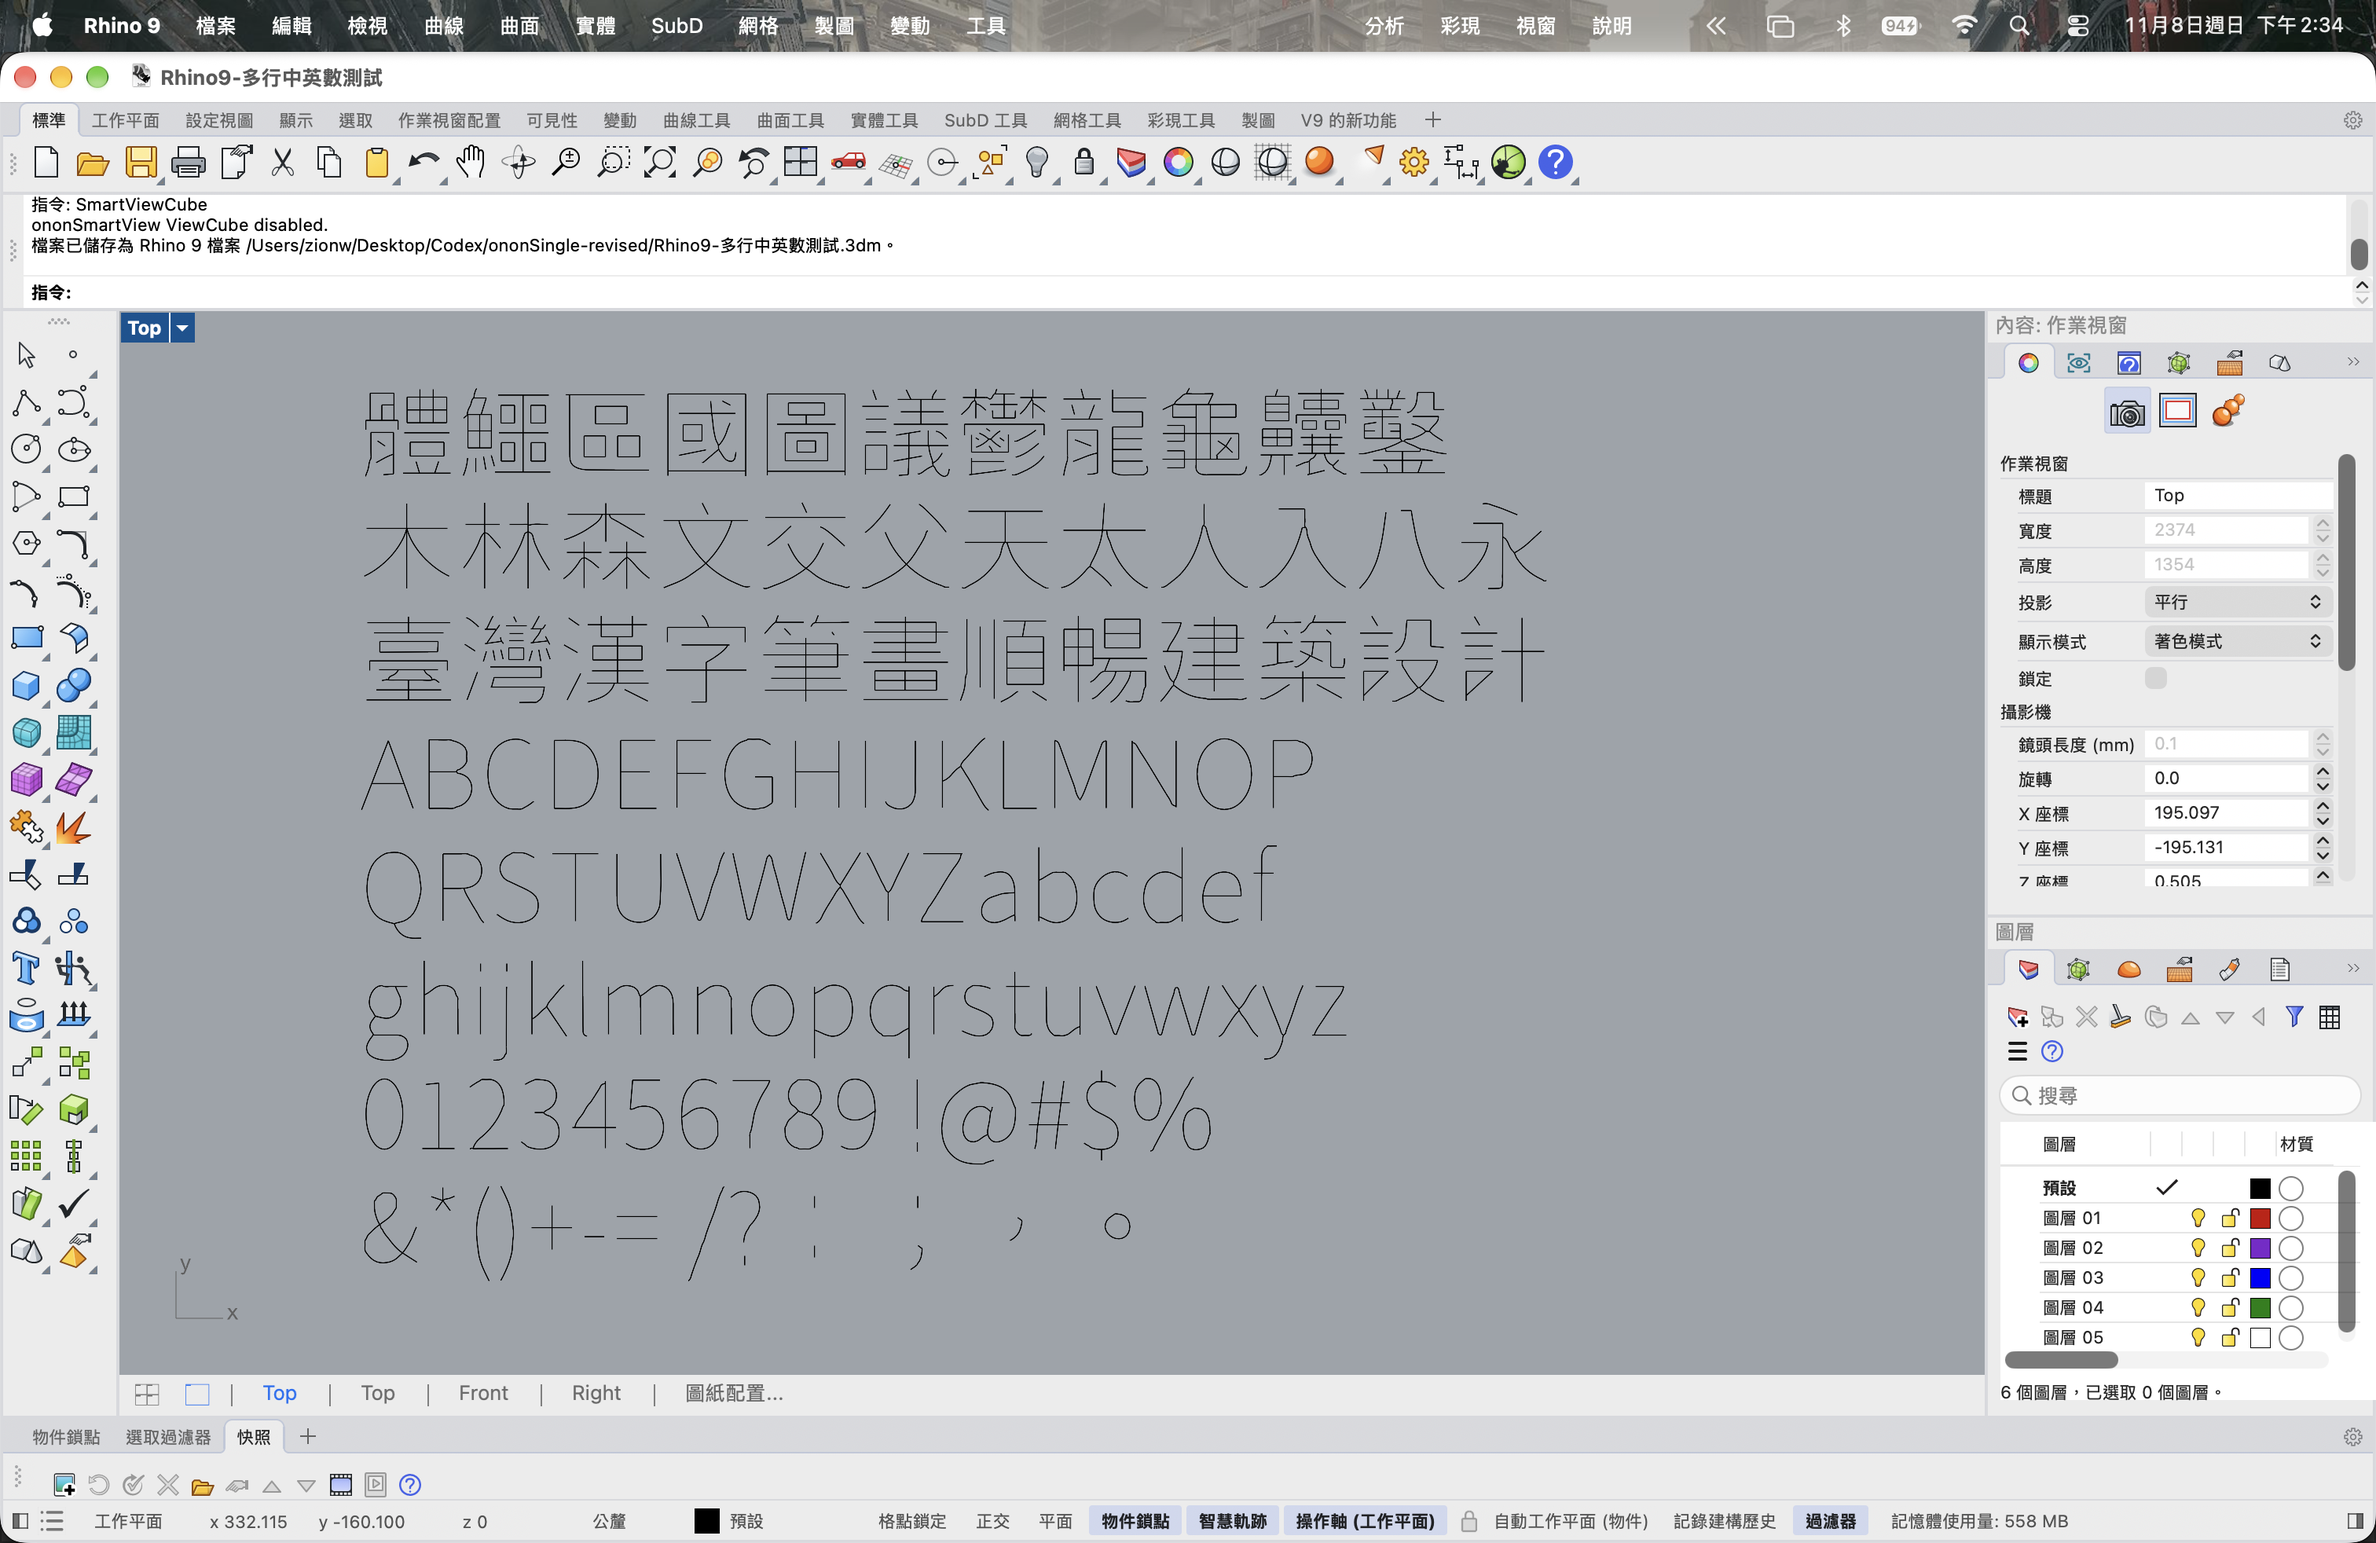
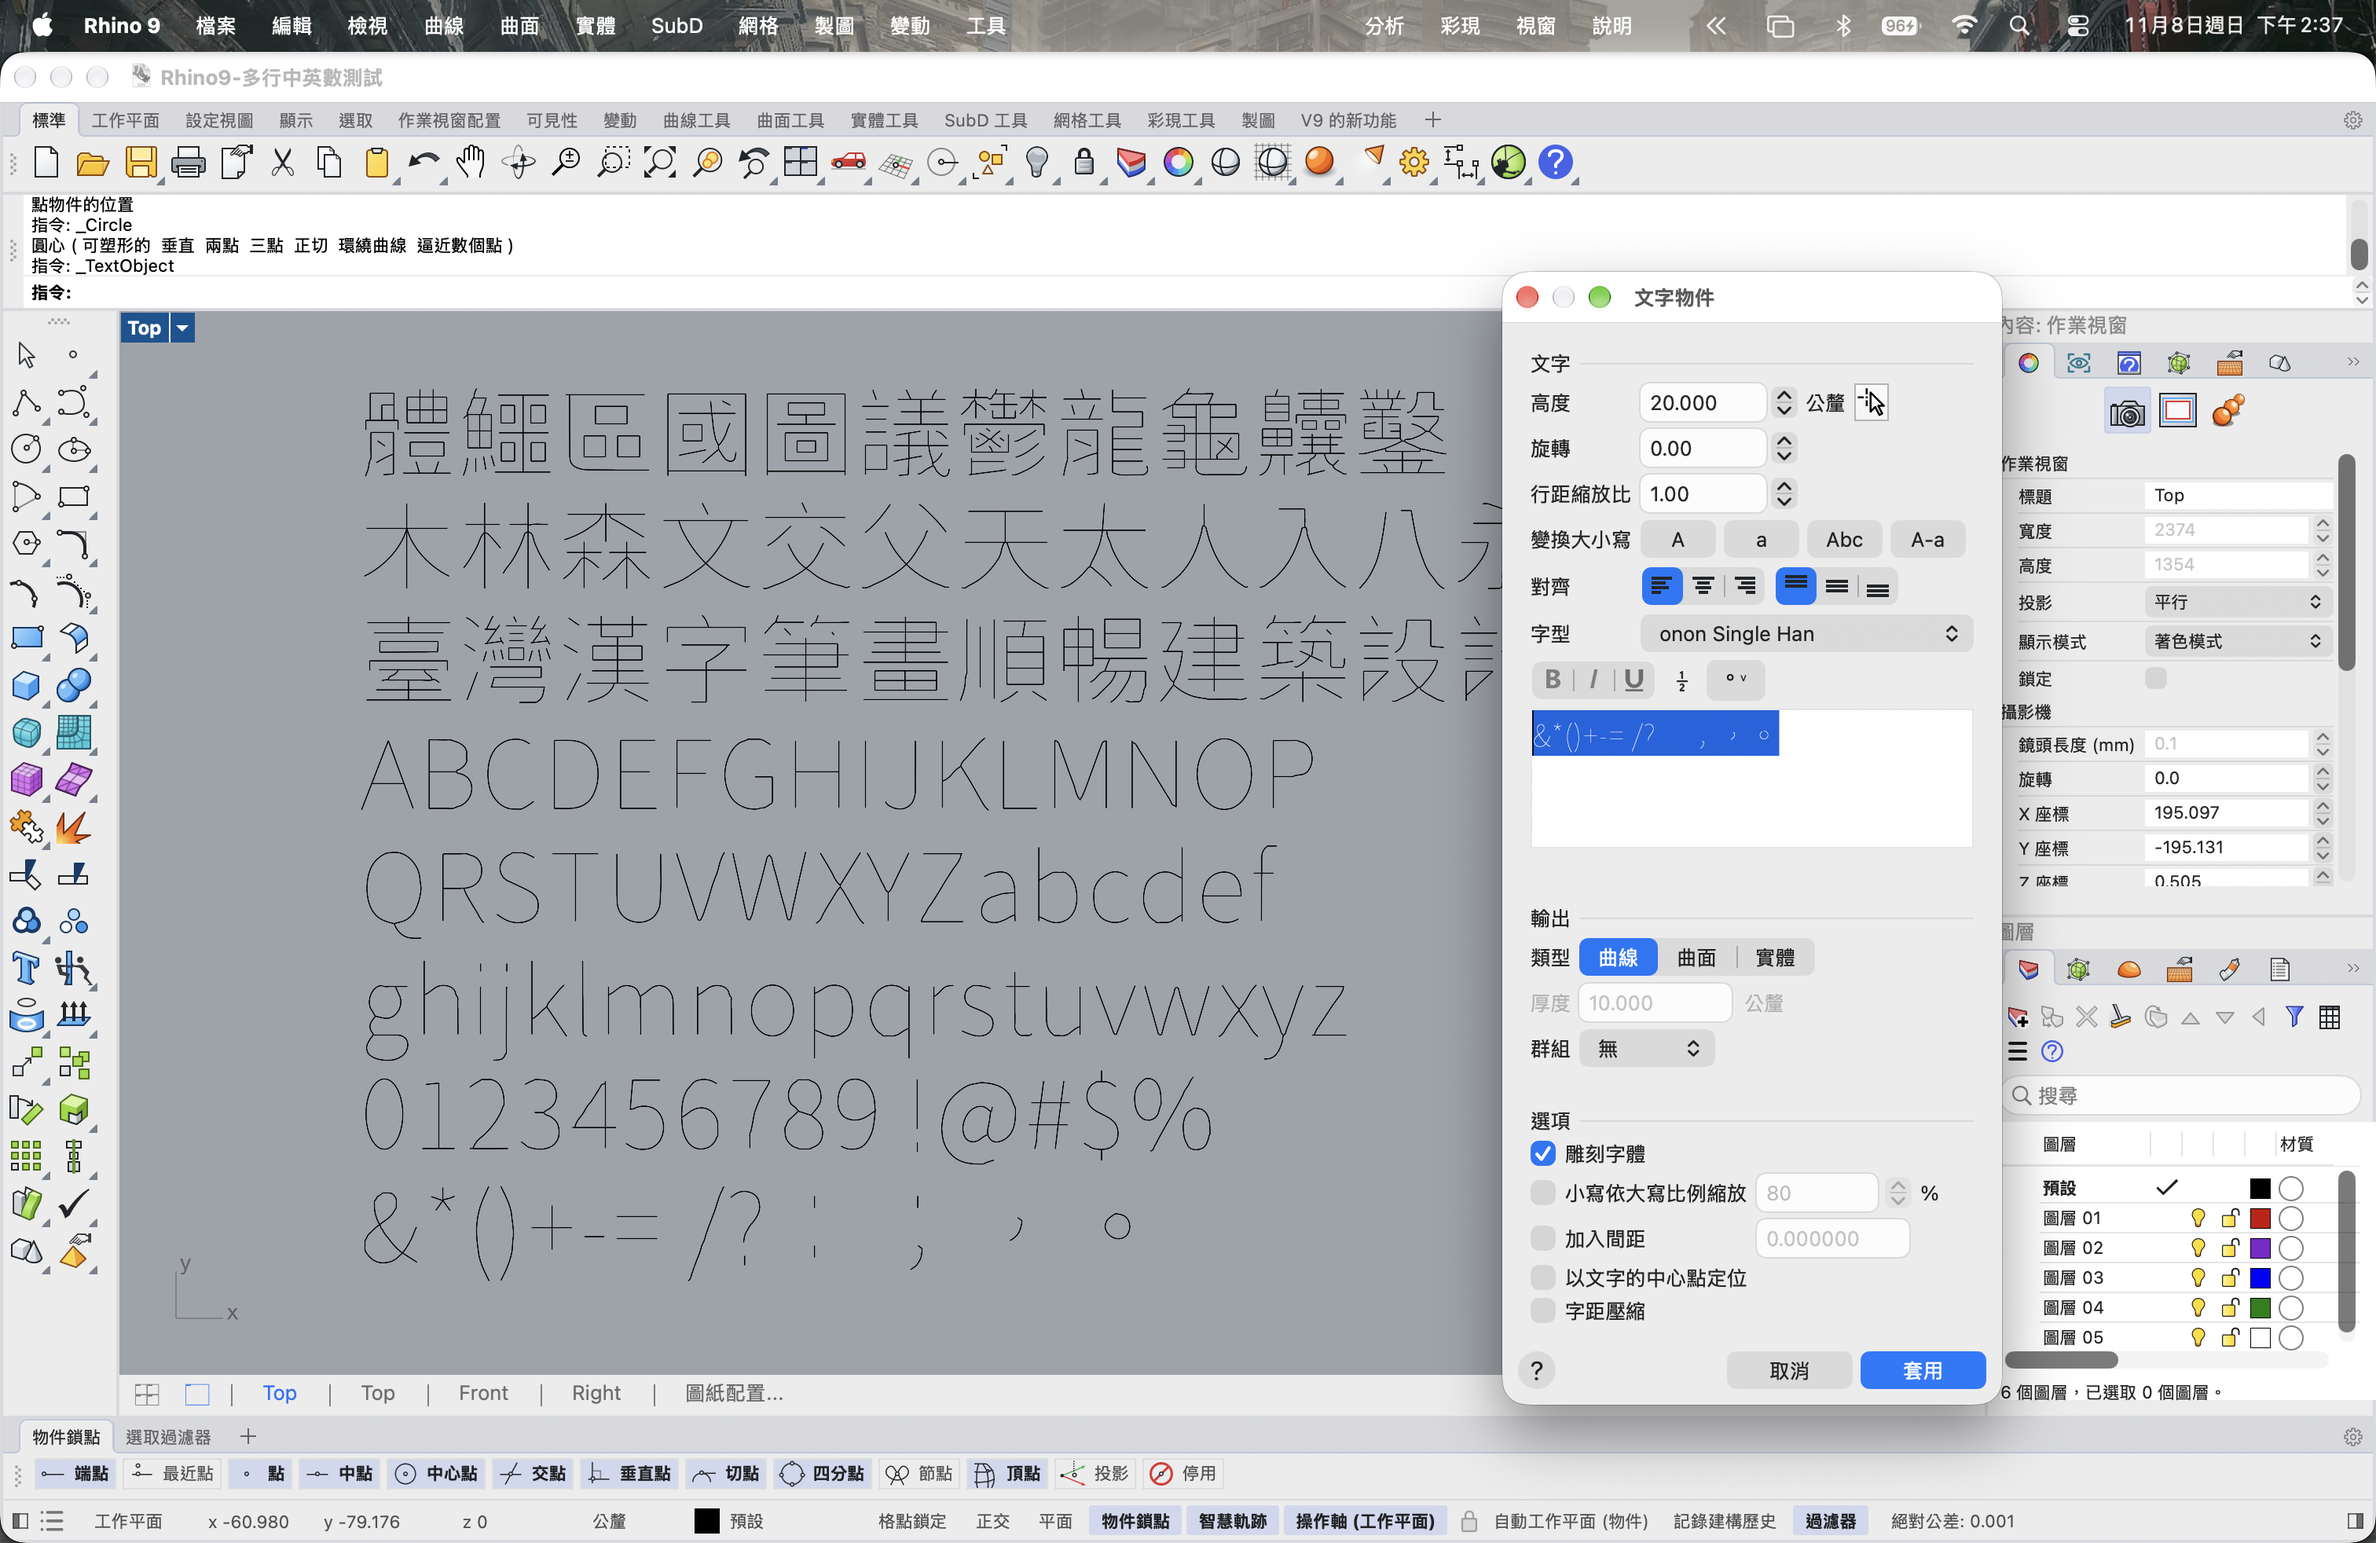
Update Rhino screenshot and audit font structure

diff --git a/README.md b/README.md
@@ -4,6 +4,8 @@
 
 ![Rhino 9 中英文數字符號測試畫面](Rhino9-測試截圖.png)
 
+畫面中的曲線為 ononSingle 方框修正試版輸出；截圖當下文字物件視窗的字型選項顯示「onon Single Han」，與已輸出曲線所用試版不同。
+
 ## 使用方法
 
 安裝 `ononSingle.ttf` 並重新啟動 Rhino。使用 **TextObject（文字方塊）**，選擇 ononSingle、輸出「曲線」並勾選「雕刻字體」。一般使用不需要 Python；輸出是曲線，不能以可編輯文字工具修改。
@@ -11,6 +13,8 @@
 ## 本版測試及限制
 
 這次修正了「木」字筆畫，以及 374 個字形中 490 處與 Google 原字形比對後疑似缺角的方框。截圖為 Rhino 9 的方框修正試版，包含中英文、數字與符號；測試文件共 707 條有效曲線。字型名稱於測試後改回 ononSingle，字形內容相同。
+
+全字型自動結構掃描涵蓋 20,299 個非空字形與 231,468 個輪廓，字元對應與 Google 原始字型一致。未發現零長度輪廓、相鄰重複線上點或微小折返；仍有 177 個符合特定形狀的三角形候選輪廓待人工判斷，詳見 [font-audit.json](font-audit.json)。這些檢查不代表已逐字確認筆畫完整或筆順正確。
 
 這是試用版：尚未逐字檢視全部方框，也尚未全面修順撇、捺交會處或逐字核對筆順。Mac Rhino 的部分曲線方向可能反轉；加工軟體也可能重新排列刀路。
 
